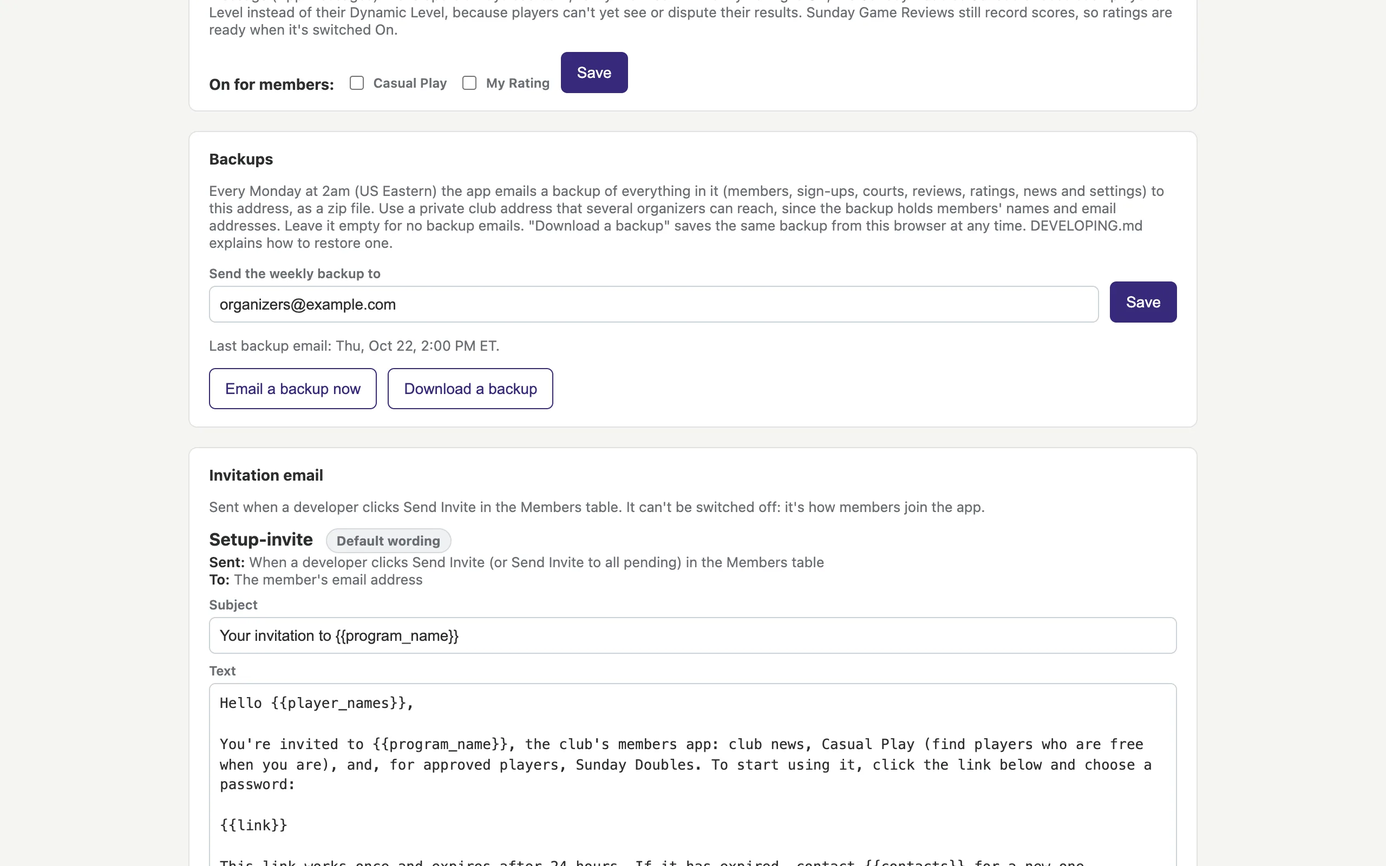
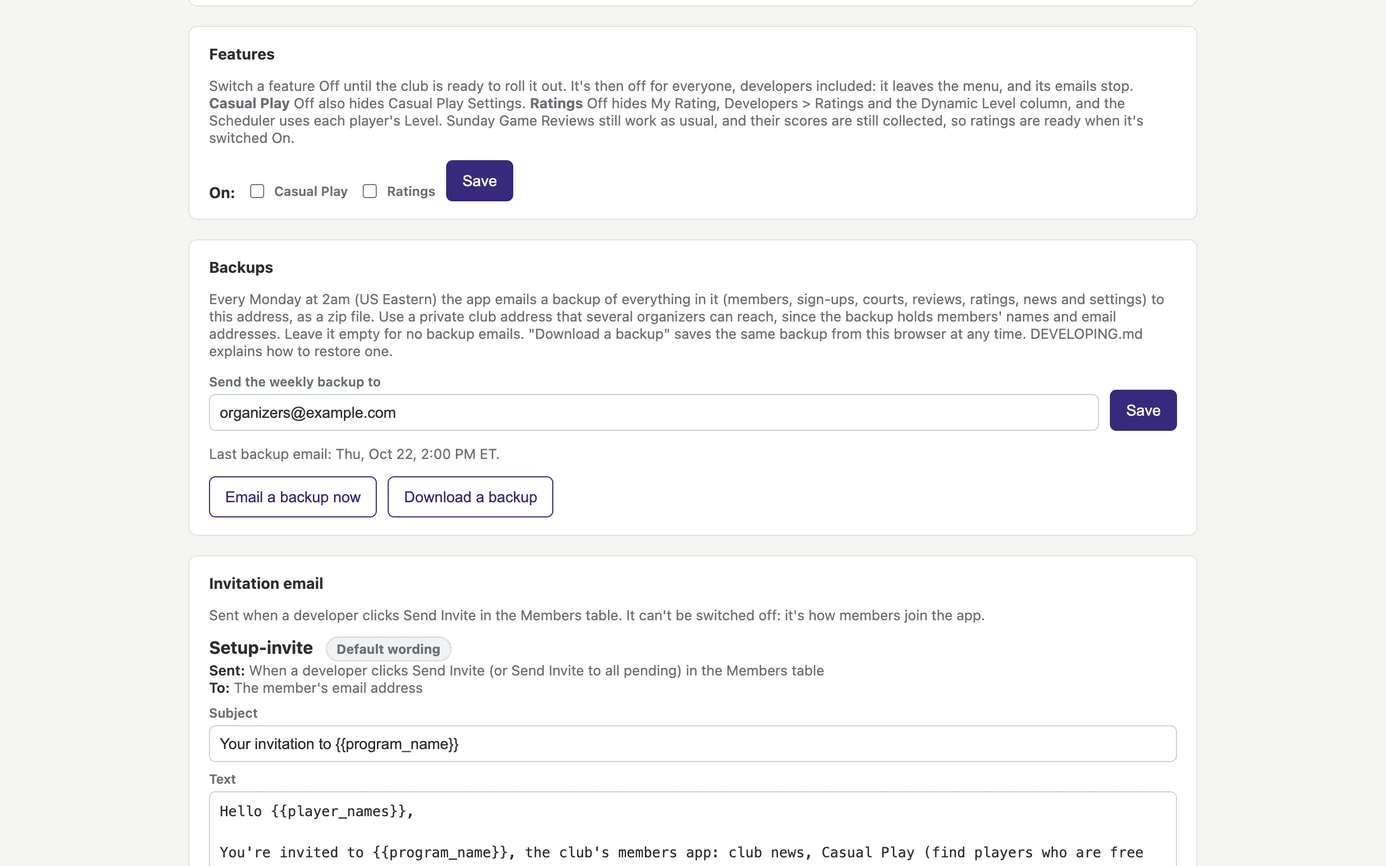
Feature switches turn Casual Play and Ratings off for everyone
Off now means off for developers too: gone from the menu, Casual Play
Settings and Developers > Ratings tabs hidden, Dynamic Level column hidden,
Casual Play emails stopped. Sunday Game Reviews still collect scores, and the
Scheduler uses Level while Ratings are off. Docs, slides and test updated.

Changed region(s): [[0.1562, 0.0, 0.875, 1.0], [0.7812, 0.4375, 0.875, 0.5]]

diff --git a/app/common.js b/app/common.js
@@ -82,7 +82,7 @@ window.STA = (function () {
       where: 'Every page, for members marked Inactive in the Members table',
       text: "Our records show that your STA membership has not been renewed for this year. Please pay your membership dues, and your access to the STA Members App will be restored." },
     { key: 'feature_off', group: 'Access', name: 'Not available yet (Casual Play, My Rating)',
-      where: 'The Casual Play and My Rating pages, while they are switched off for members (Settings > App settings)',
+      where: 'The Casual Play and My Rating pages, if someone opens one from an old link while it is switched off (Settings > App settings)',
       text: '{{feature}} isn\'t available yet. Watch the News page for when it opens.',
       placeholders: { feature: '"Casual Play" or "My Rating"' } },
     { key: 'not_sunday', group: 'Access', name: 'Not approved for Sunday Doubles',
@@ -149,8 +149,8 @@ window.STA = (function () {
   // ---------- Site header: logo, app name, navigation ----------
   // Every page has the same header. A page says where it belongs with
   // <body data-section="sunday" data-tab="courts">, and calls STA.initPage().
-  // feature: a section developers can switch off for members (Settings > App
-  // settings); developers always see it.
+  // feature: a section (or tab) developers can switch off for everyone,
+  // developers included (Settings > App settings).
   const DEFAULT_LOGO = 'img/sta-logo.png';
   const SECTIONS = [
     { key: 'news', label: 'News', href: 'news.html' },
@@ -167,7 +167,7 @@ window.STA = (function () {
       { key: 'members', label: 'Members', href: 'members.html' },
       { key: 'sunday', label: 'Sunday Program', href: 'developer.html' },
       { key: 'scheduler', label: 'Scheduler', href: 'scheduler.html' },
-      { key: 'ratings', label: 'Ratings', href: 'dev-ratings.html' },
+      { key: 'ratings', label: 'Ratings', href: 'dev-ratings.html', feature: 'rating_on' },
       { key: 'settings', label: 'Settings', href: 'settings.html' }] }
   ];
   const BRAND_CACHE = 'sta-branding';
@@ -177,7 +177,7 @@ window.STA = (function () {
   let isDev = false;
   let isSunday = false;   // approved for Sunday Doubles
   let isMember = true;    // Active member (Inactive members see only the dues message)
-  let features = { casual_on: true, rating_on: true };  // switched on for members
+  let features = { casual_on: true, rating_on: true };  // switched on (Settings > App settings)
 
   // "STA - STA Members App" shows as "STA" with "STA Members App" under it.
   function splitName(name) {
@@ -205,7 +205,7 @@ window.STA = (function () {
       document.body.insertBefore(header, document.body.firstChild);
     }
     let links = who && isMember ? SECTIONS.filter(s => (!s.devOnly || isDev) && (!s.sundayOnly || isSunday) &&
-                                                     (!s.feature || isDev || features[s.feature])).map(s =>
+                                                     (!s.feature || features[s.feature])).map(s =>
       `<a href="${s.href}"${s.key === section ? ' class="active" aria-current="page"' : ''}>${esc(s.label)}</a>`).join('') : '';
     if (who && isMember && b.demo) links += `<a href="demo-inbox.html"${section === 'demo' ? ' class="active" aria-current="page"' : ''}>Demo inbox</a>`;
     const demoStrip = b.demo
@@ -235,11 +235,9 @@ window.STA = (function () {
         head.className = 'section-head';
         main.insertBefore(head, main.firstChild);
       }
-      head.innerHTML = `<h1>${esc(s.label)}</h1>` + (s.tabs ? `<nav class="tabs" aria-label="${esc(s.label)}">${s.tabs.map(t =>
-        `<a href="${t.href}"${t.key === tab ? ' class="active" aria-current="page"' : ''}>${esc(t.label)}</a>`).join('')}</nav>` : '') +
-        (s.feature && isDev && features[s.feature] === false
-          ? `<div class="msg info">Members don't see ${esc(s.label)} yet: it's switched off for them in
-              <a href="settings.html">Developers &gt; Settings &gt; App settings</a>. Developers still see it.</div>` : '');
+      head.innerHTML = `<h1>${esc(s.label)}</h1>` + (s.tabs ? `<nav class="tabs" aria-label="${esc(s.label)}">${s.tabs
+        .filter(t => !t.feature || features[t.feature]).map(t =>
+        `<a href="${t.href}"${t.key === tab ? ' class="active" aria-current="page"' : ''}>${esc(t.label)}</a>`).join('')}</nav>` : '');
     }
 
     document.querySelectorAll('.program-name').forEach(el => { el.textContent = b.program_name; });
@@ -316,9 +314,13 @@ window.STA = (function () {
       await branding;
       return null;
     }
+    // A switched-off feature is closed to everyone, developers included.
     const s = SECTIONS.find(x => x.key === section);
-    if (s && s.feature && !features[s.feature] && !isDev) {
-      blockPage(s.label, msg('feature_off', { feature: esc(s.label) }));
+    const t = s && s.tabs && s.tabs.find(x => x.key === document.body.dataset.tab);
+    const off = s && (s.feature && !features[s.feature] ? s : t && t.feature && !features[t.feature] ? t : null);
+    if (off) {
+      blockPage(off.label, msg('feature_off', { feature: esc(off.key === 'ratings' ? 'Ratings' : off.label) }) +
+        (isDev ? ' <span class="muted">(Switched off in Developers &gt; Settings &gt; App settings.)</span>' : ''));
       await branding;
       return null;
     }

diff --git a/app/members.html b/app/members.html
@@ -21,6 +21,7 @@
   .upload-box details { margin-top: 8px; font-size: 13px; }
   .upload-box summary { cursor: pointer; font-weight: 600; }
   .upload-box ul { margin: 6px 0 0; padding-left: 20px; max-height: 220px; overflow-y: auto; }
+  body.no-ratings .dyn { display: none; }
 </style>
 </head>
 <body data-page="Members" data-section="dev" data-tab="members">
@@ -35,9 +36,9 @@
       <strong>Membership:</strong> only Active members can use the app; Inactive members see the message set in Settings &gt; App Messages.
       <strong>Sunday Doubles:</strong> only Active members with Yes see the Sunday Doubles pages and get its emails.
       <strong>App Access</strong> shows whether the member has joined: new members are <em>Pending STA Member App Invitation</em> until you click Send Invite.
-      <strong>Dynamic Level</strong> comes from My Rating: it starts as the member's Level to the nearest 0.5 and moves up or down
+      <span id="levelHelp"><strong>Dynamic Level</strong> comes from My Rating: it starts as the member's Level to the nearest 0.5 and moves up or down
       in 0.5 steps as their results count. It updates by itself; change Level to change its starting point.
-      The Sunday Doubles Scheduler uses the Dynamic Level<span id="levelNote"></span>.</p>
+      The Sunday Doubles Scheduler uses the Dynamic Level.</span></p>
     <details class="upload-box" id="addBox">
       <summary class="panel-title" style="margin:0;cursor:pointer">Add a member</summary>
       <form id="addForm" class="member-form">
@@ -94,8 +95,10 @@
 
   async function start() {
     if (!(await STA.initPage())) return;
+    // Ratings switched off: no Dynamic Level (the Scheduler uses Level).
     if (!STA.features().rating_on) {
-      $('levelNote').textContent = ' once My Rating is switched on for members (Settings > App settings); until then it uses Level';
+      document.getElementById('levelHelp').hidden = true;
+      document.body.classList.add('no-ratings');
     }
     if (!(await rpc('is_developer'))) {
       showMessage($('guardMsg'), 'This area is for developers only.');
@@ -152,7 +155,7 @@
     const sel = (field, value, options) => `<select data-field="${field}" aria-label="${field}">${options.map(([v, label]) =>
       `<option value="${v}" ${String(value) === v ? 'selected' : ''}>${label}</option>`).join('')}</select>`;
     $('members').innerHTML = rows.length ? `<table class="members">
-      <tr><th>Name</th><th>Email</th><th>Membership</th><th>Sunday Doubles</th><th>App Access</th><th>Level</th><th title="${esc(DYNAMIC_NOTE)}">Dynamic Level</th><th>Sex</th><th>Developer</th><th></th></tr>
+      <tr><th>Name</th><th>Email</th><th>Membership</th><th>Sunday Doubles</th><th>App Access</th><th>Level</th><th class="dyn" title="${esc(DYNAMIC_NOTE)}">Dynamic Level</th><th>Sex</th><th>Developer</th><th></th></tr>
       ${rows.map(m => m.player_id === editingId ? `<tr data-id="${m.player_id}" class="editing">
         <td><input data-edit="first_name" value="${esc(m.first_name)}" aria-label="First name" size="9">
             <input data-edit="last_name" value="${esc(m.last_name)}" aria-label="Last name" size="10"></td>
@@ -161,7 +164,7 @@
         <td>${sel('sunday', m.sunday_doubles, [['true', 'Yes'], ['false', 'No']])}</td>
         <td class="access">${appAccess(m)}</td>
         <td><input data-edit="level" value="${esc(m.level || '')}" aria-label="Level" size="3" placeholder="3.5"></td>
-        <td title="${esc(DYNAMIC_NOTE)}">${esc(m.dynamic_level || '?')}</td>
+        <td class="dyn" title="${esc(DYNAMIC_NOTE)}">${esc(m.dynamic_level || '?')}</td>
         <td>${sel('sex', m.sex || '', [['', '?'], ['M', 'M'], ['F', 'F']])}</td>
         <td><input type="checkbox" data-field="developer" ${m.is_developer ? 'checked' : ''} aria-label="Developer"></td>
         <td class="nowrap"><button class="small" data-act="save">Save</button> <button class="secondary small" data-act="cancel">Cancel</button></td>
@@ -172,7 +175,7 @@
         <td>${sel('sunday', m.sunday_doubles, [['true', 'Yes'], ['false', 'No']])}</td>
         <td class="access">${appAccess(m)}</td>
         <td>${esc(m.level || '?')}</td>
-        <td title="${esc(DYNAMIC_NOTE)}">${esc(m.dynamic_level || '?')}</td>
+        <td class="dyn" title="${esc(DYNAMIC_NOTE)}">${esc(m.dynamic_level || '?')}</td>
         <td>${esc(m.sex || '?')}</td>
         <td><input type="checkbox" data-field="developer" ${m.is_developer ? 'checked' : ''} aria-label="Developer"></td>
         <td><button class="secondary small" data-act="edit">Edit</button></td>

diff --git a/slides/index.html b/slides/index.html
@@ -388,15 +388,15 @@ Alice Johnson would like to set it up, but you don&#x27;t share your contact inf
   <img src="img/d-ratings-disputes.webp" alt="Disputed scores to settle" loading="lazy"></figure></div>
 </section>
 <section class="slide split stacked">
-  <div class="text"><div class="kicker">Developers · Settings</div><h2>Settings</h2><ul><li><b>App settings:</b> app name, color, logo, club website, which features members see, backups, and the invitation email.</li><li><b>Sunday Doubles Settings:</b> Time settings (the day and time of every deadline and email) and Email settings.</li><li><b>Casual Play Settings:</b> the waiting time and the three Casual Play emails.</li><li><b>App Messages:</b> the wording of the messages members see on the pages.</li></ul></div>
+  <div class="text"><div class="kicker">Developers · Settings</div><h2>Settings</h2><ul><li><b>App settings:</b> app name, color, logo, club website, which features are on, backups, and the invitation email.</li><li><b>Sunday Doubles Settings:</b> Time settings (the day and time of every deadline and email) and Email settings.</li><li><b>Casual Play Settings:</b> the waiting time and the three Casual Play emails.</li><li><b>App Messages:</b> the wording of the messages members see on the pages.</li></ul></div>
   <div class="visual"><div class="pair"><figure class="browser"><div class="bar"><i></i><i></i><i></i><span>agiusp.github.io/sta_members_app/app/</span></div>
   <img src="img/d-settings.webp" alt="App settings" loading="lazy"></figure><figure class="browser"><div class="bar"><i></i><i></i><i></i><span>agiusp.github.io/sta_members_app/app/</span></div>
   <img src="img/d-schedule.webp" alt="Sunday Doubles time settings" loading="lazy"></figure></div></div>
 </section>
 <section class="slide split">
-  <div class="text"><div class="kicker">Developers · Settings · App settings</div><h2>Start with Sunday Doubles, add the rest later</h2><ul><li>Casual Play and My Rating can each be switched off for members, so the club can launch with Sunday Doubles alone and open the others when members are ready.</li><li>Developers still see both, to try them out. Sunday Game Reviews keep recording scores, so ratings are ready on day one.</li><li><b>Backups:</b> every Monday the app emails a backup of everything to a private club address, and a developer can download one at any time.</li></ul></div>
+  <div class="text"><div class="kicker">Developers · Settings · App settings</div><h2>Start with Sunday Doubles, add the rest later</h2><ul><li>Casual Play and Ratings can each be switched off entirely, so the club can launch with Sunday Doubles alone and roll the others out when it's ready.</li><li>Off means gone from the menu for everyone, with no emails. Sunday Game Reviews keep recording scores, so ratings are ready on day one.</li><li><b>Backups:</b> every Monday the app emails a backup of everything to a private club address, and a developer can download one at any time.</li></ul></div>
   <div class="visual"><figure class="browser"><div class="bar"><i></i><i></i><i></i><span>agiusp.github.io/sta_members_app/app/</span></div>
-  <img src="img/d-features-backups.webp" alt="Features members see, and backups" loading="lazy"></figure></div>
+  <img src="img/d-features-backups.webp" alt="Switching features on or off, and backups" loading="lazy"></figure></div>
 </section>
 <section class="slide split">
   <div class="text"><div class="kicker">Developers · Settings · Sunday Doubles</div><h2>Every email can be edited, or switched off</h2><ul><li>Each email shows when it is sent and to whom, with an On/Off switch (On unless a developer switches it off).</li><li>Change the wording, preview it with sample details, or reset to the original. All emails can be printed as one document for review.</li></ul></div>

diff --git a/app/settings.html b/app/settings.html
@@ -94,15 +94,16 @@
   </section>
 
   <section class="panel">
-    <div class="panel-title">Features members see</div>
-    <p class="muted">Switch a feature Off to hide it from members while they get used to the app: it leaves their menu, and its
-      pages show the "Not available yet" message (App Messages). Developers always see both, to try them out.
-      While My Rating is Off, the Sunday Doubles Scheduler uses each player's Level instead of their Dynamic Level, because
-      players can't yet see or dispute their results. Sunday Game Reviews still record scores, so ratings are ready when it's switched On.</p>
+    <div class="panel-title">Features</div>
+    <p class="muted">Switch a feature Off until the club is ready to roll it out. It's then off for everyone, developers included:
+      it leaves the menu, and its emails stop.
+      <strong>Casual Play</strong> Off also hides Casual Play Settings.
+      <strong>Ratings</strong> Off hides My Rating, Developers &gt; Ratings and the Dynamic Level column, and the Scheduler uses each
+      player's Level. Sunday Game Reviews still work as usual, and their scores are still collected, so ratings are ready when it's switched On.</p>
     <div class="row">
-      <strong style="font-size:14px">On for members:</strong>
+      <strong style="font-size:14px">On:</strong>
       <label class="check"><input type="checkbox" id="featCasual"> Casual Play</label>
-      <label class="check"><input type="checkbox" id="featRating"> My Rating</label>
+      <label class="check"><input type="checkbox" id="featRating"> Ratings</label>
       <button id="saveFeaturesBtn">Save</button>
     </div>
     <div id="featuresMsg"></div>
@@ -337,8 +338,9 @@
     } catch (err) { showMessage($('casualMsg'), err.message); }
   });
 
-  // ---------- App settings: features members see, backups ----------
+  // ---------- App settings: features on or off, backups ----------
   function renderAppSettings(a) {
+    document.querySelector('[data-pane="casual"]').hidden = !a.casual_on;
     $('featCasual').checked = a.casual_on;
     $('featRating').checked = a.rating_on;
     $('backupEmail').value = a.backup_email || '';
@@ -353,7 +355,8 @@
     try {
       renderAppSettings(await rpc('dev_save_features', { p_casual: $('featCasual').checked, p_rating: $('featRating').checked }));
       try { sessionStorage.removeItem('sta-access'); } catch (_) { /* storage blocked */ }
-      showMessage($('featuresMsg'), 'Saved. Members see the change the next time they load a page.', 'ok');
+      showMessage($('featuresMsg'), 'Saved. Everyone sees the change the next time they load a page.', 'ok');
+      setTimeout(() => location.reload(), 1200);  // the menu and these tabs change too
     } catch (err) { showMessage($('featuresMsg'), err.message); }
   });
   $('saveBackupBtn').addEventListener('click', async () => {
@@ -414,7 +417,7 @@
         <img src="${esc(logo || STA.DEFAULT_LOGO)}" alt="">
         <span class="site-name"><span class="brand-name" style="color:${color}">${esc(name)}</span>${sub ? `<span class="brand-sub">${esc(sub)}</span>` : ''}</span>
       </span></div>
-      <div class="site-nav" style="background:${color}"><div class="site-inner"><a class="active">News</a><a>Sunday Doubles</a><a>Casual Play</a></div></div>`;
+      <div class="site-nav" style="background:${color}"><div class="site-inner"><a class="active">News</a><a>Sunday Doubles</a>${STA.features().casual_on ? '<a>Casual Play</a>' : ''}</div></div>`;
     $('previewButton').style.background = color;
     $('previewButton').style.borderColor = color;
     $('previewLink').style.color = color;

diff --git a/supabase/functions/casual-invite/index.ts b/supabase/functions/casual-invite/index.ts
@@ -27,11 +27,15 @@ Deno.serve(async (req) => {
   const caller = createClient(url, Deno.env.get("SUPABASE_ANON_KEY")!, {
     global: { headers: { Authorization: req.headers.get("Authorization") ?? "" } },
   });
+  const admin = createClient(url, Deno.env.get("SUPABASE_SERVICE_ROLE_KEY")!);
+  // Casual Play switched off (Settings > App settings): no emails.
+  const { data: on } = await admin.from("settings").select("casual_on").maybeSingle();
+  if (on?.casual_on === false) return reply({ error: "Casual Play is switched off" }, 400);
+
   const { slot_id, others } = await req.json().catch(() => ({}));
   const { data: invite, error } = await caller.rpc("casual_invite", { p_slot_id: slot_id, p_others: others });
   if (error) return reply({ error: error.message }, 400);
 
-  const admin = createClient(url, Deno.env.get("SUPABASE_SERVICE_ROLE_KEY")!);
   const [templates, { data: settings }, { data: switches }] = await Promise.all([
     E.loadTemplates(admin),
     admin.from("settings").select("program_name").maybeSingle(),

diff --git a/supabase/functions/timed-tasks/index.ts b/supabase/functions/timed-tasks/index.ts
@@ -154,8 +154,11 @@ Deno.serve(async (req) => {
   const admin = createClient(url, serviceKey);
   const { data: weekTasks, error } = await admin.rpc("claim_due_tasks");
   if (error) return reply({ error: error.message }, 500);
-  // Casual Play game emails, all year round (not tied to a Sunday).
-  const { data: casual, error: casualError } = await admin.rpc("claim_casual_emails");
+  // Casual Play game emails, all year round (not tied to a Sunday), unless
+  // Casual Play is switched off (Settings > App settings).
+  const { data: features } = await admin.from("settings").select("casual_on").maybeSingle();
+  const { data: casual, error: casualError } = features?.casual_on === false
+    ? { data: [], error: null } : await admin.rpc("claim_casual_emails");
   if (casualError) return reply({ error: casualError.message }, 500);
   const tasks = casual.length ? [...weekTasks, { kind: "casual_games", session_id: null, emails: casual }] : weekTasks;
 

diff --git a/app/styles.css b/app/styles.css
@@ -117,8 +117,6 @@ a.link-button { font-size: 13px; color: var(--accent); cursor: pointer; }
 .msg { padding: 10px 12px; border-radius: 6px; font-size: 13px; margin-top: 10px; }
 .msg.error { background: var(--red-bg); border: 1px solid var(--red-border); color: #7a2320; }
 .msg.ok { background: var(--green-bg); border: 1px solid var(--green-border); color: #1d5e30; }
-.msg.info { background: var(--amber-bg); border: 1px solid var(--amber-border); color: #6b4511; margin: 0 0 14px; }
-.msg.info a { color: inherit; }
 .test-banner {
   background: var(--amber-bg);
   border: 1px solid var(--amber-border);

diff --git a/DEVELOPING.md b/DEVELOPING.md
@@ -36,7 +36,7 @@ Then open:
 | | Sunday Program (This week with the test clock and contacts, Past Play, Player Reviews) | http://127.0.0.1:3000/app/developer.html |
 | | Scheduler | http://127.0.0.1:3000/app/scheduler.html |
 | | Ratings (all games, each player's rating history, league standings, leagues, disputes) | http://127.0.0.1:3000/app/dev-ratings.html |
-| | Settings (App: branding, features members see, backups; Sunday Doubles; Casual Play) | http://127.0.0.1:3000/app/settings.html |
+| | Settings (App: branding, features on/off, backups; Sunday Doubles; Casual Play) | http://127.0.0.1:3000/app/settings.html |
 
 | Tool | Address |
 |---|---|
@@ -88,16 +88,16 @@ The look follows the club website (statennis.com): Playfair Display headings, sm
 
 **Casual Play:** members post when they're free to play (1, 1.5 or 2 hours, 6am to 9pm Eastern, up to 4 weeks ahead), choosing whether to show their name and whether to share their contact info for that time ("Show my name for this time", ticked by default, and "Share my contact info for games", Yes by default). There are no account-wide defaults on the page any more; the top panel only has the levels to show and "Email me when players' times line up with mine". In a time's "Possible games" box, the heading gives the time and day, and a line in the box's color separates it from Doubles and Doubles from Singles. They see when others at their 1 or 2 chosen levels are free, as half-hour cells shaded by how many players are available; others see each player's sex and level, and the name only if shown. Two times line up when they share at least an hour, the levels suit each other both ways, and they're on different accounts (`casual_pairs`). On the calendar, a member's own time gets a bright orange ring where another player's time lines up (a possible singles game) and a green ring where three other players who all line up with it and with each other share the same hour (a possible doubles game, `casual_doubles`). Clicking a ringed half hour lists the possible games. Contact info only goes between players who share it for those times: when everyone in a game shares, each of them sees the others' email addresses, and clicking the ring copies them (or **Copy email addresses** / **Write email**). A player who shares can click **Email them** to have the app email the players in the game who don't share (`casual_invite` in the database checks and records it, once per time, game and player in `casual_invites`; the `casual-invite` function sends it straight away, using the "a player would like to set up a game" email). With more than 3 possible doubles partners, the member ticks the 3 to play with. There are no fixed matches; the players decide among themselves. Players who tick "Email me when players' times line up with mine" also hear by email: a player who shares is emailed whenever a new player who also shares lines up, with everyone's names and email addresses (new players marked, plus a count of players who don't share); a player who doesn't share is emailed whenever a new player lines up, with a link to share for that time. `casual_told` records who has been told about whom. These emails wait until both times have been posted for the waiting time in Settings > Casual Play Settings (`settings.casual_email_delay_minutes`, 2 hours by default), so a time posted by mistake can be taken back first, and go out through `timed-tasks` (`claim_casual_emails`). Everything goes through the `casual_*` functions; the tables can't be read or changed directly.
 
-**My Rating:** every Active member's play rating on the NTRP scale, shown as the official 0.5 level (e.g. 3.0) and the rating to two decimals (e.g. 3.15). Other players never see a rating: `my_rating()` returns the signed-in member's own history and nothing about anyone else's rating. Developers can look up any player's (Developers > Ratings > **Player history**, `dev_rating_history`, the same summary and history as `my_rating`, from `rating_summary`), and `rating-how.html` tells players so. Developers see each member's official level as **Dynamic Level** in the Members table (`rating_dynamic_levels()`: the Level to the nearest 0.5 until results move it), and the Sunday Doubles Scheduler and Sunday Program > This week use it instead of Level (`dev_scheduler_data`, `dev_week` through `scheduler_levels()`; players without a number in Level keep their Level). While My Rating is switched off for members, `scheduler_levels()` is empty and they use Level. Casual Play still uses Level. Everyone starts at their level in the Members table. Ratings aren't stored: `rating_replay()` works them all out from the counted results in `rating_results`, oldest first, every time, so a late confirmation, a corrected score or a changed level fixes everything after it. Each result moves a player by step size × weight × (share of games won − expected share): expected share is `rating_expected` (every 0.5 of a gap doubles the odds; a doubles side is the partners' average), step size `rating_k` (0.8 ÷ (results so far + 5)^0.4), weight `rating_weight` (full from 20 games). The official level is the rating to the nearest 0.5 (`rating_nearest`), and only changes once the rating is 0.1 past a halfway point: 3.5 to 4.0 at 3.85, 3.5 to 3.0 below 3.15 (`rating_official`). **These numbers are explained to players on `rating-how.html`: change both together.**
+**My Rating:** every Active member's play rating on the NTRP scale, shown as the official 0.5 level (e.g. 3.0) and the rating to two decimals (e.g. 3.15). Other players never see a rating: `my_rating()` returns the signed-in member's own history and nothing about anyone else's rating. Developers can look up any player's (Developers > Ratings > **Player history**, `dev_rating_history`, the same summary and history as `my_rating`, from `rating_summary`), and `rating-how.html` tells players so. Developers see each member's official level as **Dynamic Level** in the Members table (`rating_dynamic_levels()`: the Level to the nearest 0.5 until results move it), and the Sunday Doubles Scheduler and Sunday Program > This week use it instead of Level (`dev_scheduler_data`, `dev_week` through `scheduler_levels()`; players without a number in Level keep their Level). While Ratings are switched off, `scheduler_levels()` is empty and they use Level. Casual Play still uses Level. Everyone starts at their level in the Members table. Ratings aren't stored: `rating_replay()` works them all out from the counted results in `rating_results`, oldest first, every time, so a late confirmation, a corrected score or a changed level fixes everything after it. Each result moves a player by step size × weight × (share of games won − expected share): expected share is `rating_expected` (every 0.5 of a gap doubles the odds; a doubles side is the partners' average), step size `rating_k` (0.8 ÷ (results so far + 5)^0.4), weight `rating_weight` (full from 20 games). The official level is the rating to the nearest 0.5 (`rating_nearest`), and only changes once the rating is 0.1 past a halfway point: 3.5 to 4.0 at 3.85, 3.5 to 3.0 below 3.15 (`rating_official`). **These numbers are explained to players on `rating-how.html`: change both together.**
 
 Results come from Sunday Doubles Game Reviews (`submit_review` calls `rating_sync_review`: each group of sets with the same partners is one result; an opponent's matching review confirms it, a different score from anyone on the court disputes it, and the reporter editing their review makes it wait again) and from **Report a game** (`report_rating_game`: day, singles or doubles, casual play or a league, Active members, last 30 days). Players answer with `answer_rating_result` (each answer is kept in `rating_confirmations`); while a member has results waiting for their answer (`rating_needs_answer`), My Rating and Report a game show only those. A reported game counts only once every other player in it, partner included, has confirmed it. A Sunday result needs one opponent, and counts on its own 7 days after it was reported (`rating_counted`). Disputing means proposing the score you think is right (`answer_rating_result` with `p_sets`; `rating_propose`): it becomes the current score, the confirmations are cleared, and the other players (the earlier proposer included) are asked again, back and forth until everyone confirms one score. A Game Review with a different score proposes it the same way (`rating_sync_review`). Every score proposed is kept in `rating_proposals` and shown to the players. The 3rd dispute (`rating_disputes` counts proposals by a different player from the one before) sends the game to the developers instead (status `developers`; players are no longer asked). Those games, then any still going back and forth (`rating_disputed`), show in Developers > Ratings > Disputes, where a developer can settle them (`dev_resolve_rating`: count the current score, count a corrected score, or don't count). The player who first reported a game can withdraw it until it counts. Developers add, rename and finish leagues there too (`rating_leagues`, `dev_save_league`; players can only report games for open leagues), and see every result with each player's answer, filters, a CSV download and a league's standings (`dev_rating_games`). Clicking a player's name there opens their Player history. The **What if?** box (`rating_preview`) works out a made-up result from numbers typed in. In test mode, developers can add made-up results for themselves on My Rating (`dev_simulate_rating_results`, marked `simulated`) and remove them all (`dev_clear_simulated_ratings`).
 
-## Features members see
+## Switching features off
 
-Casual Play and My Rating can each be switched off for members under **Developers > Settings > App settings** (`settings.casual_on`, `settings.rating_on`, `dev_save_features`), for example to start with Sunday Doubles only. `my_access()` reports both; `common.js` (`feature` in `SECTIONS`) then leaves the section out of members' menus and shows its pages as the "Not available yet" App Message. Developers always see both, with a note at the top of the page saying members don't. The database doesn't refuse members' calls to those functions: switching off is about what members see, not about access to anyone's data. While a feature is off:
+Casual Play and Ratings can each be switched off under **Developers > Settings > App settings** (`settings.casual_on`, `settings.rating_on`, `dev_save_features`), so the club can launch with Sunday Doubles alone and roll the others out later. Off means off for everyone, developers included. `my_access()` reports both, and `common.js` (`feature` on a section or tab in `SECTIONS`) leaves them out of the menu; a page opened from an old link shows the "Not available yet" App Message. The database doesn't refuse calls to those functions: switching off is about what the app shows and sends, not about access to anyone's data.
 
-- **Casual Play:** its emails still go out for any times already posted, so switch it off before members start posting (or leave it on).
-- **My Rating:** Sunday Game Reviews still record results, and they count after 7 days as usual, so ratings are ready when it's switched on. The Scheduler uses Level (see My Rating above). Don't report games that include members while it's off: they can't confirm them.
+- **Casual Play off:** no Casual Play menu or Casual Play Settings tab, and no Casual Play emails (`timed-tasks` doesn't claim them; `casual-invite` refuses).
+- **Ratings off:** no My Rating menu, no Developers > Ratings tab and no Dynamic Level column in the Members table. The Scheduler and This week use Level (`scheduler_levels()`). Sunday Game Reviews work as usual and still record results (`rating_sync_review`), and those count after 7 days as usual, so ratings are ready when it's switched on.
 - The default invitation email mentions Casual Play: edit it under Settings > App settings while Casual Play is off.
 
 ## Backups
